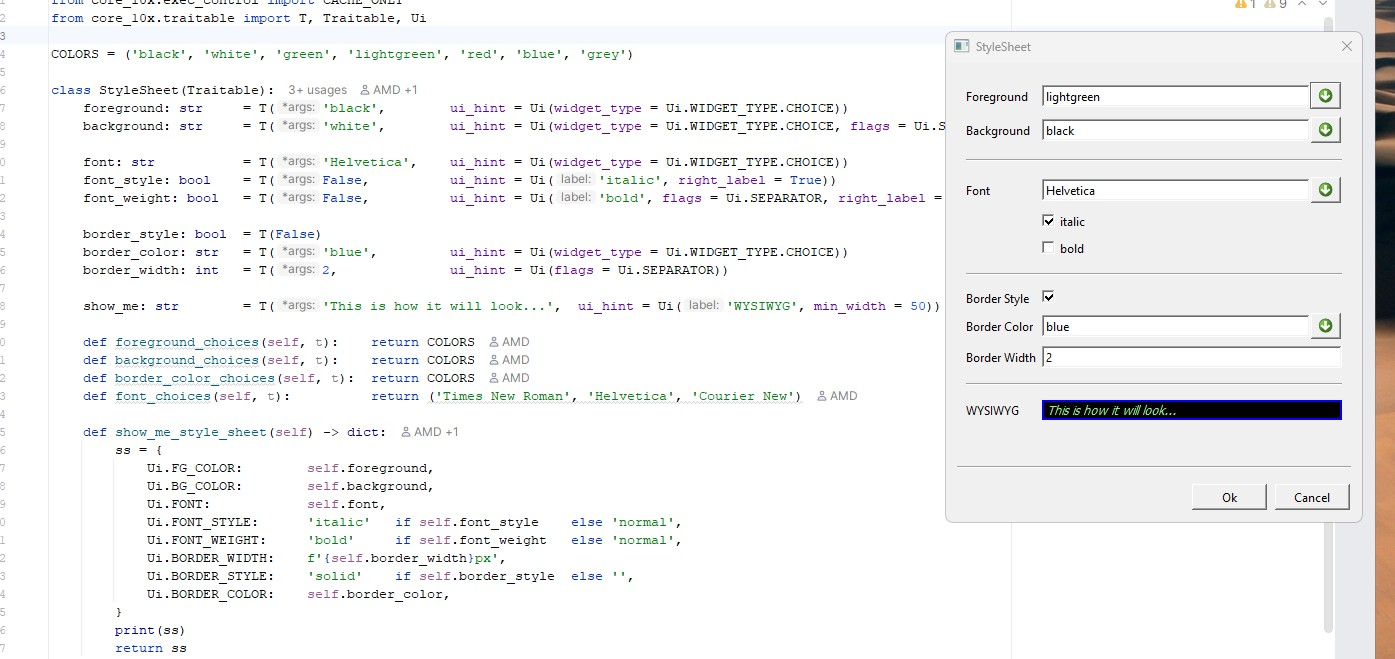
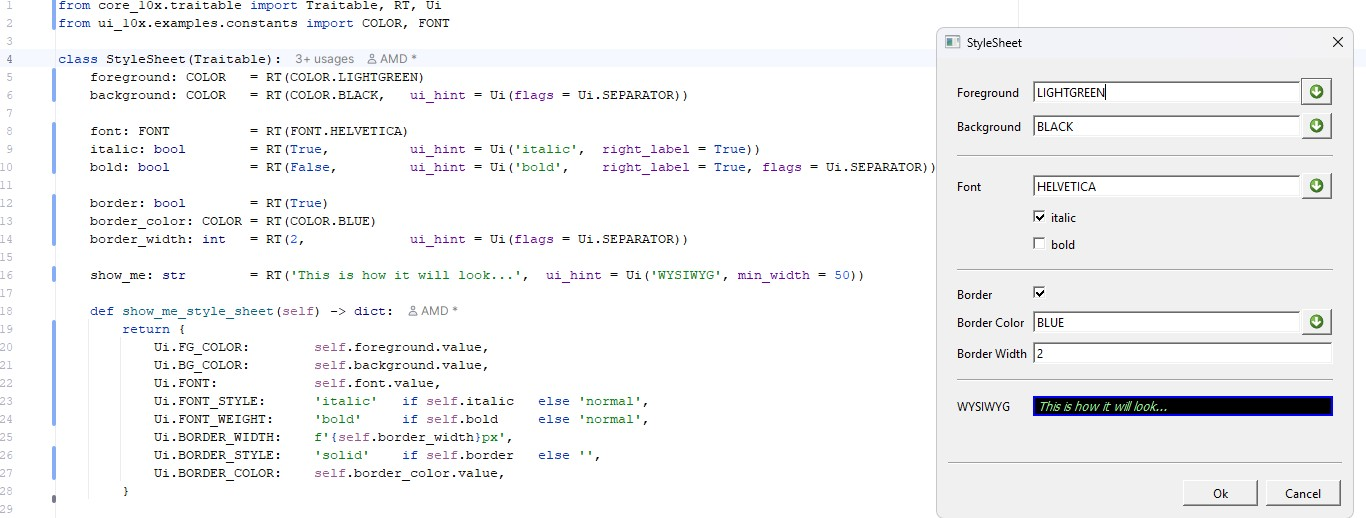
1) simplified style_sheet.py 2) Changed README.md

Changed region(s): [[0.0307, 0.0, 1.0, 1.0]]

diff --git a/ui_10x/examples/style_sheet.py b/ui_10x/examples/style_sheet.py
@@ -1,47 +1,36 @@
-from core_10x.exec_control import CACHE_ONLY
-from core_10x.traitable import T, Traitable, Ui
-
-COLORS = ('black', 'white', 'green', 'lightgreen', 'red', 'blue', 'grey')
+from core_10x.traitable import Traitable, RT, Ui
+from ui_10x.examples.constants import COLOR, FONT
 
 class StyleSheet(Traitable):
-    foreground: str     = T('black',        ui_hint = Ui(widget_type = Ui.WIDGET_TYPE.CHOICE))
-    background: str     = T('white',        ui_hint = Ui(widget_type = Ui.WIDGET_TYPE.CHOICE, flags = Ui.SEPARATOR))
+    foreground: COLOR   = RT(COLOR.LIGHTGREEN)
+    background: COLOR   = RT(COLOR.BLACK,   ui_hint = Ui(flags = Ui.SEPARATOR))
 
-    font: str           = T('Helvetica',    ui_hint = Ui(widget_type = Ui.WIDGET_TYPE.CHOICE))
-    font_style: bool    = T(False,          ui_hint = Ui('italic', right_label = True))
-    font_weight: bool   = T(False,          ui_hint = Ui('bold', flags = Ui.SEPARATOR, right_label = True))
+    font: FONT          = RT(FONT.HELVETICA)
+    italic: bool        = RT(True,          ui_hint = Ui('italic',  right_label = True))
+    bold: bool          = RT(False,         ui_hint = Ui('bold',    right_label = True, flags = Ui.SEPARATOR))
 
-    border_style: bool  = T(False)
-    border_color: str   = T('blue',         ui_hint = Ui(widget_type = Ui.WIDGET_TYPE.CHOICE))
-    border_width: int   = T(2,              ui_hint = Ui(flags = Ui.SEPARATOR))
+    border: bool        = RT(True)
+    border_color: COLOR = RT(COLOR.BLUE)
+    border_width: int   = RT(2,             ui_hint = Ui(flags = Ui.SEPARATOR))
 
-    show_me: str        = T('This is how it will look...',  ui_hint = Ui('WYSIWYG', min_width = 50))
-
-    def foreground_choices(self, t):    return COLORS
-    def background_choices(self, t):    return COLORS
-    def border_color_choices(self, t):  return COLORS
-    def font_choices(self, t):          return ('Times New Roman', 'Helvetica', 'Courier New')
+    show_me: str        = RT('This is how it will look...',  ui_hint = Ui('WYSIWYG', min_width = 50))
 
     def show_me_style_sheet(self) -> dict:
-        ss = {
-            Ui.FG_COLOR:        self.foreground,
-            Ui.BG_COLOR:        self.background,
-            Ui.FONT:            self.font,
-            Ui.FONT_STYLE:      'italic'   if self.font_style    else 'normal',
-            Ui.FONT_WEIGHT:     'bold'     if self.font_weight   else 'normal',
+        return {
+            Ui.FG_COLOR:        self.foreground.value,
+            Ui.BG_COLOR:        self.background.value,
+            Ui.FONT:            self.font.value,
+            Ui.FONT_STYLE:      'italic'   if self.italic   else 'normal',
+            Ui.FONT_WEIGHT:     'bold'     if self.bold     else 'normal',
             Ui.BORDER_WIDTH:    f'{self.border_width}px',
-            Ui.BORDER_STYLE:    'solid'    if self.border_style  else '',
-            Ui.BORDER_COLOR:    self.border_color,
+            Ui.BORDER_STYLE:    'solid'    if self.border   else '',
+            Ui.BORDER_COLOR:    self.border_color.value,
         }
-        print(ss)
-        return ss
 
 if __name__ == '__main__':
     from ui_10x.traitable_editor import TraitableEditor
 
-    with CACHE_ONLY():
-        sheet = StyleSheet()
-        e = TraitableEditor(sheet, _confirm = True)
-        e.dialog().exec()
-
+    sheet = StyleSheet()
+    e = TraitableEditor(sheet, _confirm = True)
+    e.popup()
 

diff --git a/ui_10x/examples/constants.py b/ui_10x/examples/constants.py
@@ -1,0 +1,16 @@
+from core_10x.named_constant import NamedConstant
+
+class COLOR(NamedConstant):
+    BLACK   = 'black'
+    WHITE   = 'white'
+    GREY    = 'grey'
+    RED     = 'red'
+    GREEN   = 'green'
+    LIGHTGREEN = 'lightgreen'
+    YELLOW  = 'yellow'
+    BLUE    = 'blue'
+
+class FONT(NamedConstant):
+    NEW_ROMAN   = 'Times New Roman'
+    HELVETICA   = 'Helvetica'
+    COURIER_NEW = 'Courier New'

diff --git a/README.md b/README.md
@@ -1,41 +1,27 @@
 # py10x-core
 
-**Unified, identity-driven, dependency-aware object model for Python**  
-—with lazy dependency graph, persistence, automatic UI editors, and more
+**The Substratum of Genaxy** — a generative core for software, not a feature list.
 
 [![Python 3.11–3.13](https://img.shields.io/badge/python-3.11–3.13-blue)](https://www.python.org)
 [![License: MIT](https://img.shields.io/badge/License-MIT-yellow)](https://opensource.org/licenses/MIT)
 
 <img src="https://10x-software.org/10x-jerboa.jpeg" alt="Jerboa Logo" width="240">
 
-## 🚀 Why py10x?
+## 🌌 Why Genaxy?
 
-Standard Python objects have no shared identity layer and no automatic dependency tracking.  
-**py10x-core** turns them into a coherent, **dependency-aware graph of connected identifiable objects** — a single shared layer that feels unified across modules, files and processes.
+10x exists for one audience: engineers, researchers, and developers who want to be 10 times more productive — not through better tooling at the edges, but by never having to rebuild the same foundation twice.
 
-Key superpowers:
+**Genaxy** is what makes that possible: a new kind of software system, built around a small, generative core rather than assembled feature by feature. At its center sits the **Substratum** — `py10x-core` — a handful of laws, not a feature set: identity, dependency, persistence, presentation. Everything else follows from these.
 
-- **Global Identity & Sharing**  
-  Objects with identical **ID Traits** are automatically the same logical entity.  
-  Change a value in one place → every reference sees the update instantly (global cache).
+Around the Substratum sit **Subject Domains** — real fields of work, each built on the same foundation instead of reinventing it. Finance is the first: `py10x-fin-base`. More will follow. Each domain surrounds the Substratum the way planets surround a star — independent, distinct, but all held together by the same underlying laws.
 
-- **Lazy Dependency Graph**  
-  Computed traits (derived values) are calculated only when accessed.  
-  Dependencies are tracked automatically — no manual invalidation, no recompute storms.
+Most software is built domain-first: a finance system, a healthcare system, a logistics system — each one reinventing identity, persistence, and UI from scratch. Genaxy inverts that. Build the Substratum once. Let every domain grow from it.
 
-- **Deep Persistence**  
-  Complex nested object graphs saved to **Traitable Store** (MongoDB, PostgreSQL, or in-memory DuckDB).  
-  Built-in versioning, history tracking, transparent lazy loading.
-
-- **Automatic UI Editors**  
-  Define your data model once → get native two-way editors for **Rio** (web) or **Qt** (desktop).  
-  No manual UI code for viewing/editing traitables.
-
-This approach dramatically reduces boilerplate while giving you fine-grained control over computation timing and persistence behavior.
+The four laws aren't a checklist to memorize — they're vocabulary for *describing* a real-world problem, before any specific technology gets chosen. Say what a thing **is** (its identity), what it **depends on**, where it **needs to live**, and how someone should **see and touch it** — and the application, the report, the service you actually needed falls out of that description, largely for free. More laws may join this list over time; the point was never the current four. It's that describing a problem well is what makes building it easy.
 
 ---
 
-## 🏁 Hello World
+## 🏁 Identity and Dependency, in Nine Lines
 
 By default, the `Traitable` constructor accepts **only ID traits**. For how the framework uses identity and storage to resolve or create instances, see [How Traitables Are Created](https://github.com/10x-software/py10x/blob/main/GETTING_STARTED.md#how-traitables-are-created) in the Getting Started guide.
 
@@ -65,44 +51,83 @@ with CACHE_ONLY(), GRAPH_ON():
     print(dev2.energy)          # 120  ← shared via global cache
 ```
 
-
-Want automatic persistence, per-class stores, store unions, querying, nested objects, UI generation, verifiers, and more?
-→ Dive into [GETTING_STARTED.md](https://github.com/10x-software/py10x/blob/main/GETTING_STARTED.md) for the full technical manual.
+Two of the four laws, in nine lines: `handle` is the *identity*, `energy` is a *dependency* on `coffee_cups`, tracked and recomputed automatically. For automatic persistence, per-class stores, querying, nested objects, and more, consult the comprehensive Getting Started documentation.
 
 ---
 
-## 🧠 When Should You Use py10x?
+## 🗄 Everything Is a Resource
 
-py10x-core is a good fit when:
+Real systems rarely live in one database. Genaxy treats every external dependency — a MongoDB cluster, a Postgres box, a DuckDB file, a credentials vault — as a `Resource`: addressed by a plain URI, resolved to a concrete driver through a small, pluggable registry. The Traitable Store you persist objects to is just one kind of `Resource`, alongside anything else your system depends on.
 
-- Your application has rich domain models with **derived fields**
-- You need deterministic **object identity**
-- You want automatic dependency tracking
-- You want persistence and UI derived from the same model
+You define **logical** resources — names your code refers to, like `"main"` or `"mkt_data"` — and assign each one to a **physical** location (an actual URI) separately, per environment. Traitable classes associate themselves with a logical resource by name, so different parts of a system can live on different physical stores without any downstream code needing to know or care which.
 
-It may be overkill for simple scripts, stateless APIs, or lightweight validation-only use cases.
+Authentication follows the same shape. A user registers once: an RSA keypair is generated on their own machine, the private key is encrypted with their own master password, and everything lands in the OS keyring — never transmitted, never stored in plaintext. From that point on, every resource that user is entitled to just works, with no per-database credential wiring anywhere in application code.
 
-If your system has evolving state and relationships, py10x-core removes a large amount of manual synchronization code.
+---
+
+## 🎨 The UI Is Derived, Not Written
+
+Presentation is the fourth law, and it works the same way: describe the shape of the thing, and the UI for viewing and editing it comes for free. A dropdown that only accepts valid values isn't a widget you configure — it falls out of typing the trait as a `NamedConstant`:
+
+```python
+from core_10x.traitable import Traitable, RT, Ui
+from ui_10x.examples.constants import COLOR, FONT
+
+class StyleSheet(Traitable):
+    foreground: COLOR   = RT(COLOR.BLACK)
+    background: COLOR   = RT(COLOR.WHITE,   ui_hint = Ui(flags = Ui.SEPARATOR))
+
+    font: FONT          = RT(FONT.HELVETICA)
+    italic: bool        = RT(False,         ui_hint = Ui('italic',  right_label = True))
+    bold: bool          = RT(False,         ui_hint = Ui('bold',    right_label = True, flags = Ui.SEPARATOR))
+
+    border: bool        = RT(False)
+    border_color: COLOR = RT(COLOR.BLUE)
+    border_width: int   = RT(2,             ui_hint = Ui(flags = Ui.SEPARATOR))
+
+    show_me: str        = RT('This is how it will look...',  ui_hint = Ui('WYSIWYG', min_width = 50))
+
+    def show_me_style_sheet(self) -> dict:
+        return {
+            Ui.FG_COLOR:        self.foreground.value,
+            Ui.BG_COLOR:        self.background.value,
+            Ui.FONT:            self.font.value,
+            Ui.FONT_STYLE:      'italic'   if self.italic   else 'normal',
+            Ui.FONT_WEIGHT:     'bold'     if self.bold     else 'normal',
+            Ui.BORDER_WIDTH:    f'{self.border_width}px',
+            Ui.BORDER_STYLE:    'solid'    if self.border   else '',
+            Ui.BORDER_COLOR:    self.border_color.value,
+        }
+```
+
+That's the entire program — no layout code, no widget wiring, no dropdown population logic. `TraitableEditor(StyleSheet()).popup()` generates the full dialog below: dropdowns, checkboxes, and a live preview that updates itself, because it's just another computed trait sharing the same dependency graph as everything else.
+
+<img src="Screenshot_style_sheet.jpg" alt="The entire StyleSheet trait class (left) and the auto-generated editor it produces (right) — the WYSIWYG preview updates live from the dependency graph, with no manual UI code anywhere." width="1000">
+
+The same class definition renders as a native Qt desktop dialog or a Rio web view, depending only on which backend is active.
+
+---
+
+## 🧭 When Should You Build a Subject Domain on Genaxy?
+
+Genaxy fits problems with:
+
+- Real-world entities with derived, computed state
+- A need for deterministic, shared identity across a whole system
+- Data that outlives a single process — persistence you don't want to hand-roll
+- A UI that should never drift out of sync with the model it displays
+
+It's overkill for a simple script, a stateless API, or pure validation logic — those don't need a Substratum, they need a function. Genaxy pays off when a system's state and relationships keep evolving, and keeping everything in sync by hand is the actual cost center.
 
 ---
 
 ## 🔍 How Is This Different?
 
-Unlike `dataclasses` or `Pydantic`:
+Compared to `dataclasses` or Pydantic — objects have deterministic identity from their ID traits; the same identity always resolves to the same logical entity; derived fields are lazily computed and dependency-tracked, not just validated once at construction.
 
-- Objects have deterministic identity based on **ID traits**
-- Identical identity traits resolve to the same logical entity
-- Derived fields are lazily computed and dependency-tracked
+Compared to traditional ORMs — identity isn't tied to a database row, and persistence is optional and pluggable per class, not baked into one schema.
 
-Unlike traditional ORMs:
-
-- Identity is not tied to a database row
-- Persistence is optional and pluggable
-
-Unlike reactive frameworks:
-
-- Dependencies are tracked automatically
-- Computation is lazy by default
+Compared to reactive frameworks — dependencies are tracked automatically, computation is lazy by default, and the same graph drives persistence and UI, not just view updates.
 
 ---
 
@@ -110,9 +135,10 @@ Unlike reactive frameworks:
 
 | I want to… | Read |
 |------------|------|
+| Read the full vision and history | [WHITEPAPER.md](WHITEPAPER.md) |
 | Install py10x | [INSTALLATION.md](INSTALLATION.md) |
 | Learn the Traitable framework | [GETTING_STARTED.md](GETTING_STARTED.md) |
-| Install / use fin-base (`xxfin`) | [xx_fin/README.md](xx_fin/README.md) |
+| Install / use the finance Subject Domain (`xxfin`) | [xx_fin/README.md](xx_fin/README.md) |
 | Contribute code | [CONTRIBUTING.md](CONTRIBUTING.md) |
 | Cut a release / sync dev deps | [dev_10x/README.md](dev_10x/README.md) |
 
@@ -121,7 +147,3 @@ Unlike reactive frameworks:
 - **Project e-mail:** [py10x@10x-software.org](mailto:py10x@10x-software.org)
 - **Security:** Report vulnerabilities to [security@10x-software.org](mailto:security@10x-software.org)
 - **Discord:** [Join the 10x Community](https://discord.gg/m7AQSXfFwf)
-
-
-
-

diff --git a/WHITEPAPER.md b/WHITEPAPER.md
@@ -53,7 +53,7 @@ SecDb's dependency graph answers "what is this value, computed on demand." There
 Every external dependency — a database, a cluster, anything — is a `Resource`, addressed by URI and resolved to a concrete driver registered under a `ResourceType`. Traitable Store is just one instance of this pattern: drivers exist today for MongoDB, PostgreSQL, and DuckDB, and because the Postgres/DuckDB drivers sit on top of Ibis, the backend catalog is architecturally open to anything Ibis already supports. Authentication is handled the same way, once, for everyone: a vault-backed system generates an RSA keypair on the user's own machine, encrypts the private key with their own master password, and stores everything in the OS keyring — credentials never cross the wire. One registration step grants a user access to every resource on that vault server, with no manual per-database credential wiring.
 
 **4. UI That Writes Itself.**
-A `Traitable` subclass with typed fields and a few `ui_hint` annotations is enough to generate a full, working editor — dropdowns, checkboxes, grouped layout, a live preview — with no manual UI code at all. In one real example (`ui_10x/examples/style_sheet.py`), a ~40-line class produces a complete style editor whose preview pane updates live as you change colors, fonts, and borders — because the preview is just another computed trait in the same dependency graph. The same class definition renders as a native Qt desktop dialog or a Rio web view, depending only on which backend is active.
+A `Traitable` subclass with typed fields is enough to generate a full, working editor — dropdowns, checkboxes, grouped layout, a live preview — with no manual UI code at all. In one real example (`ui_10x/examples/style_sheet.py`), a ~35-line class produces a complete style editor whose preview pane updates live as you change colors, fonts, and borders — because the preview is just another computed trait in the same dependency graph. The dropdowns need no configuration at all: typing a trait as a `NamedConstant` subclass (e.g. a `COLOR` enum) is enough for the framework to pick a choice widget and populate its options automatically — no `ui_hint` or choice-list method required. `ui_hint` annotations are only needed where a default needs a nudge — a label, a grouping separator. The same class definition renders as a native Qt desktop dialog or a Rio web view, depending only on which backend is active.
 
 <img src="Screenshot_style_sheet.jpg" alt="The entire StyleSheet trait class (left) and the auto-generated editor it produces (right) — the WYSIWYG preview updates live from the dependency graph, with no manual UI code anywhere." width="1000">
 
